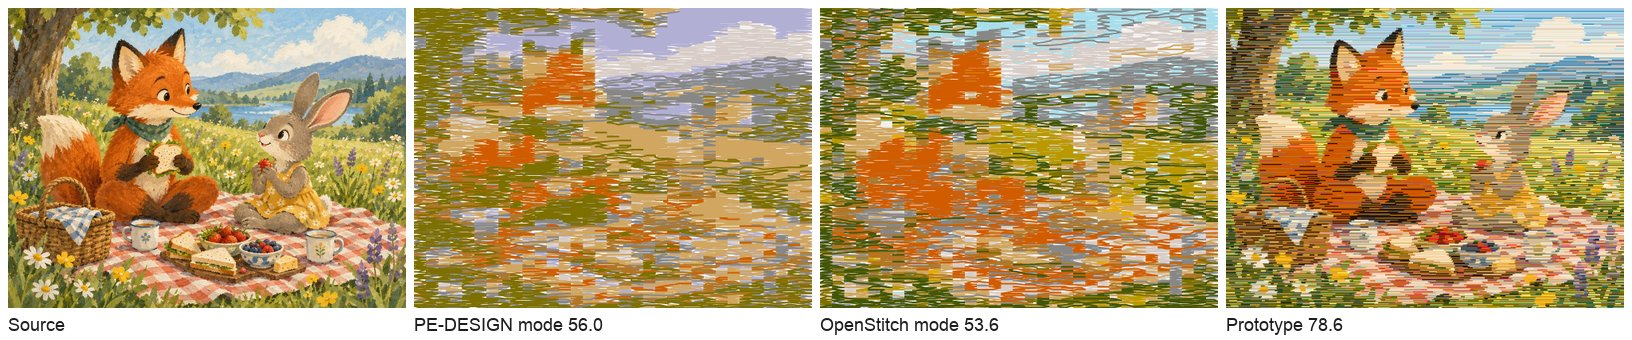
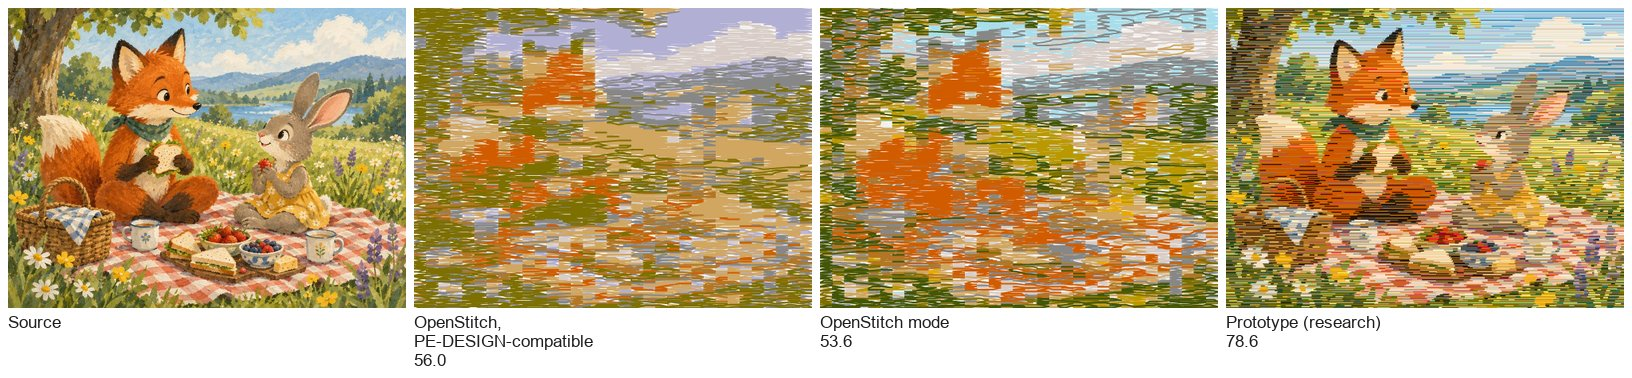
Research: call the default mode PE-DESIGN-compatible in the similarity plan
Every result is OpenStitch's: the default mode is OpenStitch's
reimplementation of PE-DESIGN 11's method, not PE-DESIGN's own output.
Renames it in the plan's text and tables, re-renders the comparison
images with the new captions, and says so beside them.

diff --git a/docs/research/beyond/image-similarity-plan.md b/docs/research/beyond/image-similarity-plan.md
@@ -18,7 +18,7 @@ It is research only. Nothing here is implemented. It builds on [image-digitizing
   - 20 % perceptual, DISTS.
 
   It is computed on a thread render seen at actual size from 40 cm (S-CIELAB eye model).
-- **Today, flat-thread render, PE-DESIGN mode → OpenStitch mode:**
+- **Today, flat-thread render, PE-DESIGN-compatible mode → OpenStitch mode:** PE-DESIGN-compatible mode is OpenStitch's reimplementation of PE-DESIGN 11's method, not PE-DESIGN's own output.
 
   | Tool | Score |
   |---|---|
@@ -76,7 +76,7 @@ Agreed with the owner, 2026-10-31 (interview questions 1, 2 and 8, research ques
 ## 3. Baselines
 
 All 34 cases of `tools/image_eval.py` (Higgsfield test images, `examples/images`), defaults,
-commit 79acdfe (alpha.8). Flat render. Each cell reads PE-DESIGN mode → OpenStitch mode.
+commit 79acdfe (alpha.8). Flat render. Each cell reads PE-DESIGN-compatible mode → OpenStitch mode.
 
 | Case | Score | ΔE | MS-SSIM | DISTS |
 |---|---|---|---|---|
@@ -116,7 +116,7 @@ commit 79acdfe (alpha.8). Flat render. Each cell reads PE-DESIGN mode → OpenSt
 
 Per tool, mean score:
 
-| Tool | PE mode, flat | OpenStitch mode, flat | PE mode, realistic | OpenStitch mode, realistic |
+| Tool | PE-DESIGN-compatible mode, flat | OpenStitch mode, flat | PE-DESIGN-compatible mode, realistic | OpenStitch mode, realistic |
 |---|---|---|---|---|
 | Auto Punch (10) | 78.9 | 78.4 | 76.5 | 76.5 |
 | Photo Stitch 1 (9) | 58.7 | 55.8 | 57.2 | 55.2 |
@@ -199,9 +199,11 @@ target them.
 
 The images in each row, left to right:
 - the source;
-- PE-DESIGN mode;
+- OpenStitch in PE-DESIGN-compatible mode;
 - OpenStitch mode;
 - the best prototype, where one exists.
+
+No picture shows PE-DESIGN's own output: every image after the source is an OpenStitch render.
 
 Every result is the flat render at viewing scale, with its composite score. The prototypes are Python experiments (section 4), not product output:
 - **Photo rows:** rate-constrained rows at ≤ 2.1 needle points/mm² (T2–T5).
@@ -239,7 +241,7 @@ Every result is the flat render at viewing scale, with its composite score. The 
 | R2 | Realistic-view shading: edge 0.55×, highlight lifted 45 %, so black renders as 74 and white as 238 | `workspace.rs::thread_shades` | −9 ΔE on the realistic render | exact portrait 95.1 flat against 82.6 shaded; needs a sew-out to know the truth |
 | R3 | Palette: k-means centres snapped to the nearest thread; centres collapse onto the same thread (10 asked, 7 distinct on p01) | `palette.rs`, `perceptual.rs` | −3 to −10 | whole chart 84.6 against 10 as today 81.0 (p01); g07 70.8 against 83.5 |
 | R4 | One brand's 64 colours | `openstitch-core::charts` PEC only | −4 to −8 | all brands: emblem 90.3 → 95.6, cat 86.2 → 93.4 |
-| R5 | Dithering everywhere, including flat areas, adds noise that MS-SSIM and DISTS punish | `palette::dither_perceptual` | −2 to −14 on graphics; −3 on PS1 (OpenStitch against PE mode) | g13 nearest 87.4 against dithered 73.7; p11 PE 75.5 against OpenStitch 62.0 |
+| R5 | Dithering everywhere, including flat areas, adds noise that MS-SSIM and DISTS punish | `palette::dither_perceptual` | −2 to −14 on graphics; −3 on PS1 (OpenStitch against PE-DESIGN-compatible mode) | g13 nearest 87.4 against dithered 73.7; p11 PE-DESIGN-compatible 75.5 against OpenStitch 62.0 |
 | R6 | Auto Punch leaves out the border colour even when it is not the fabric colour | `autopunch.rs` `skip_background` | up to −16 per image | g02 76 against a 92 ceiling: the blue sky is not sewn |
 | R7 | No density/coverage model: no penetration budget, and travel and trims are not optimised against likeness | `photo.rs::fill_layer` | indirect: OpenStitch PS1 has 13 % more trims | B16 2.3 |
 | R8 | Photo Stitch 2: four threads, a line screen with fabric between lines, shares from one reduced colour per thread | `screen.rs` (#129) | ceiling 74–80 against 39–51 today | prune4 ceiling, baselines |
@@ -291,7 +293,7 @@ measured before they are accepted.
 
 Order agreed with the owner: improvements that help every tool first, then Photo Stitch 2,
 Photo Stitch 1, Auto Punch, Cross Stitch, Design Center. All work lives in the OpenStitch mode
-(`compatMode: openStitch`). **PE-DESIGN mode stays exactly as it is.** Its compat specs and
+(`compatMode: openStitch`). **PE-DESIGN-compatible mode stays exactly as it is.** Its compat specs and
 captures must not change.
 
 ### Phase 0 — measurement (first, small)
@@ -310,7 +312,7 @@ captures must not change.
 |---|---|---|---|---|
 | T4 thread selection by backward elimination | `openstitch-digitize::palette`, `perceptual` | +2 to +12 | low | every tool's score ≥ before; the colour count is the user's |
 | T5 multi-chart and My Threads source | `openstitch-core::charts`, B13, app dialog | +4 to +8 on graphics | medium (UI, thread-brand data) | emblem ≥ 95 with all brands |
-| T6 tonal/flat map: dither only tonal regions | `openstitch-digitize::palette` | +5 to +14 on graphics; no PS1 regression | low | p11 ≥ PE mode; g13 ≥ 85 |
+| T6 tonal/flat map: dither only tonal regions | `openstitch-digitize::palette` | +5 to +14 on graphics; no PS1 regression | low | p11 ≥ PE-DESIGN-compatible mode; g13 ≥ 85 |
 | Fidelity setting (Standard / High) in the image dialog; High raises the colour count (up to 24) and enables the costlier passes, never the density cap | `openstitch-app`, `stitchtool` params | – | low | dialog spec; parameter round-trips |
 
 ### Phase 2 — Photo Stitch 2 (largest gap)
@@ -339,7 +341,7 @@ target silently.
 | Task | Crates | Expected gain | Risk | Validation |
 |---|---|---|---|---|
 | T7 sew a coloured background | `autopunch.rs` | g02 +10 to +15 | low | g02 ≥ 88 |
-| T11 SLIC regions at 800 px, line-art keep | `regions.rs`, `autopunch.rs` | +2 to +7 | medium: specks and trims | specks 0, trims ≤ PE mode |
+| T11 SLIC regions at 800 px, line-art keep | `regions.rs`, `autopunch.rs` | +2 to +7 | medium: specks and trims | specks 0, trims ≤ PE-DESIGN-compatible mode |
 | T12 skeleton satin for outlines | `autopunch.rs`, `center.rs` | +1 to +3 | medium | clip-art cases ≥ 95 with T5 |
 | T8 per-region fill angle from the orientation field | `autopunch.rs` | +1 to +3 on painted images | low | p03 and g06 gain |
 
@@ -365,7 +367,7 @@ plus any added ones.
 | Cross Stitch | photos | High | ≥ 75 % | 31–34 | 75 (2.5 mm) – 84 (1.5 mm) |
 | Cross Stitch | pixel art, clip art | High | ≥ 90 % | 48–67 | 87–91 |
 | Design Center | line art (g03, g04) | High | ≥ 95 % | not measured | not measured |
-| All | all | Standard | ≥ PE-DESIGN mode's score on every image | – | – |
+| All | all | Standard | ≥ PE-DESIGN-compatible mode's score on every image | – | – |
 
 **Every result also passes the sewability gate.** No sewing error of any kind is permitted (owner, interview question 9). The gate:
 - needle points ≤ 2.1 per mm² over any 10 × 10 mm window, at both levels (owner);
